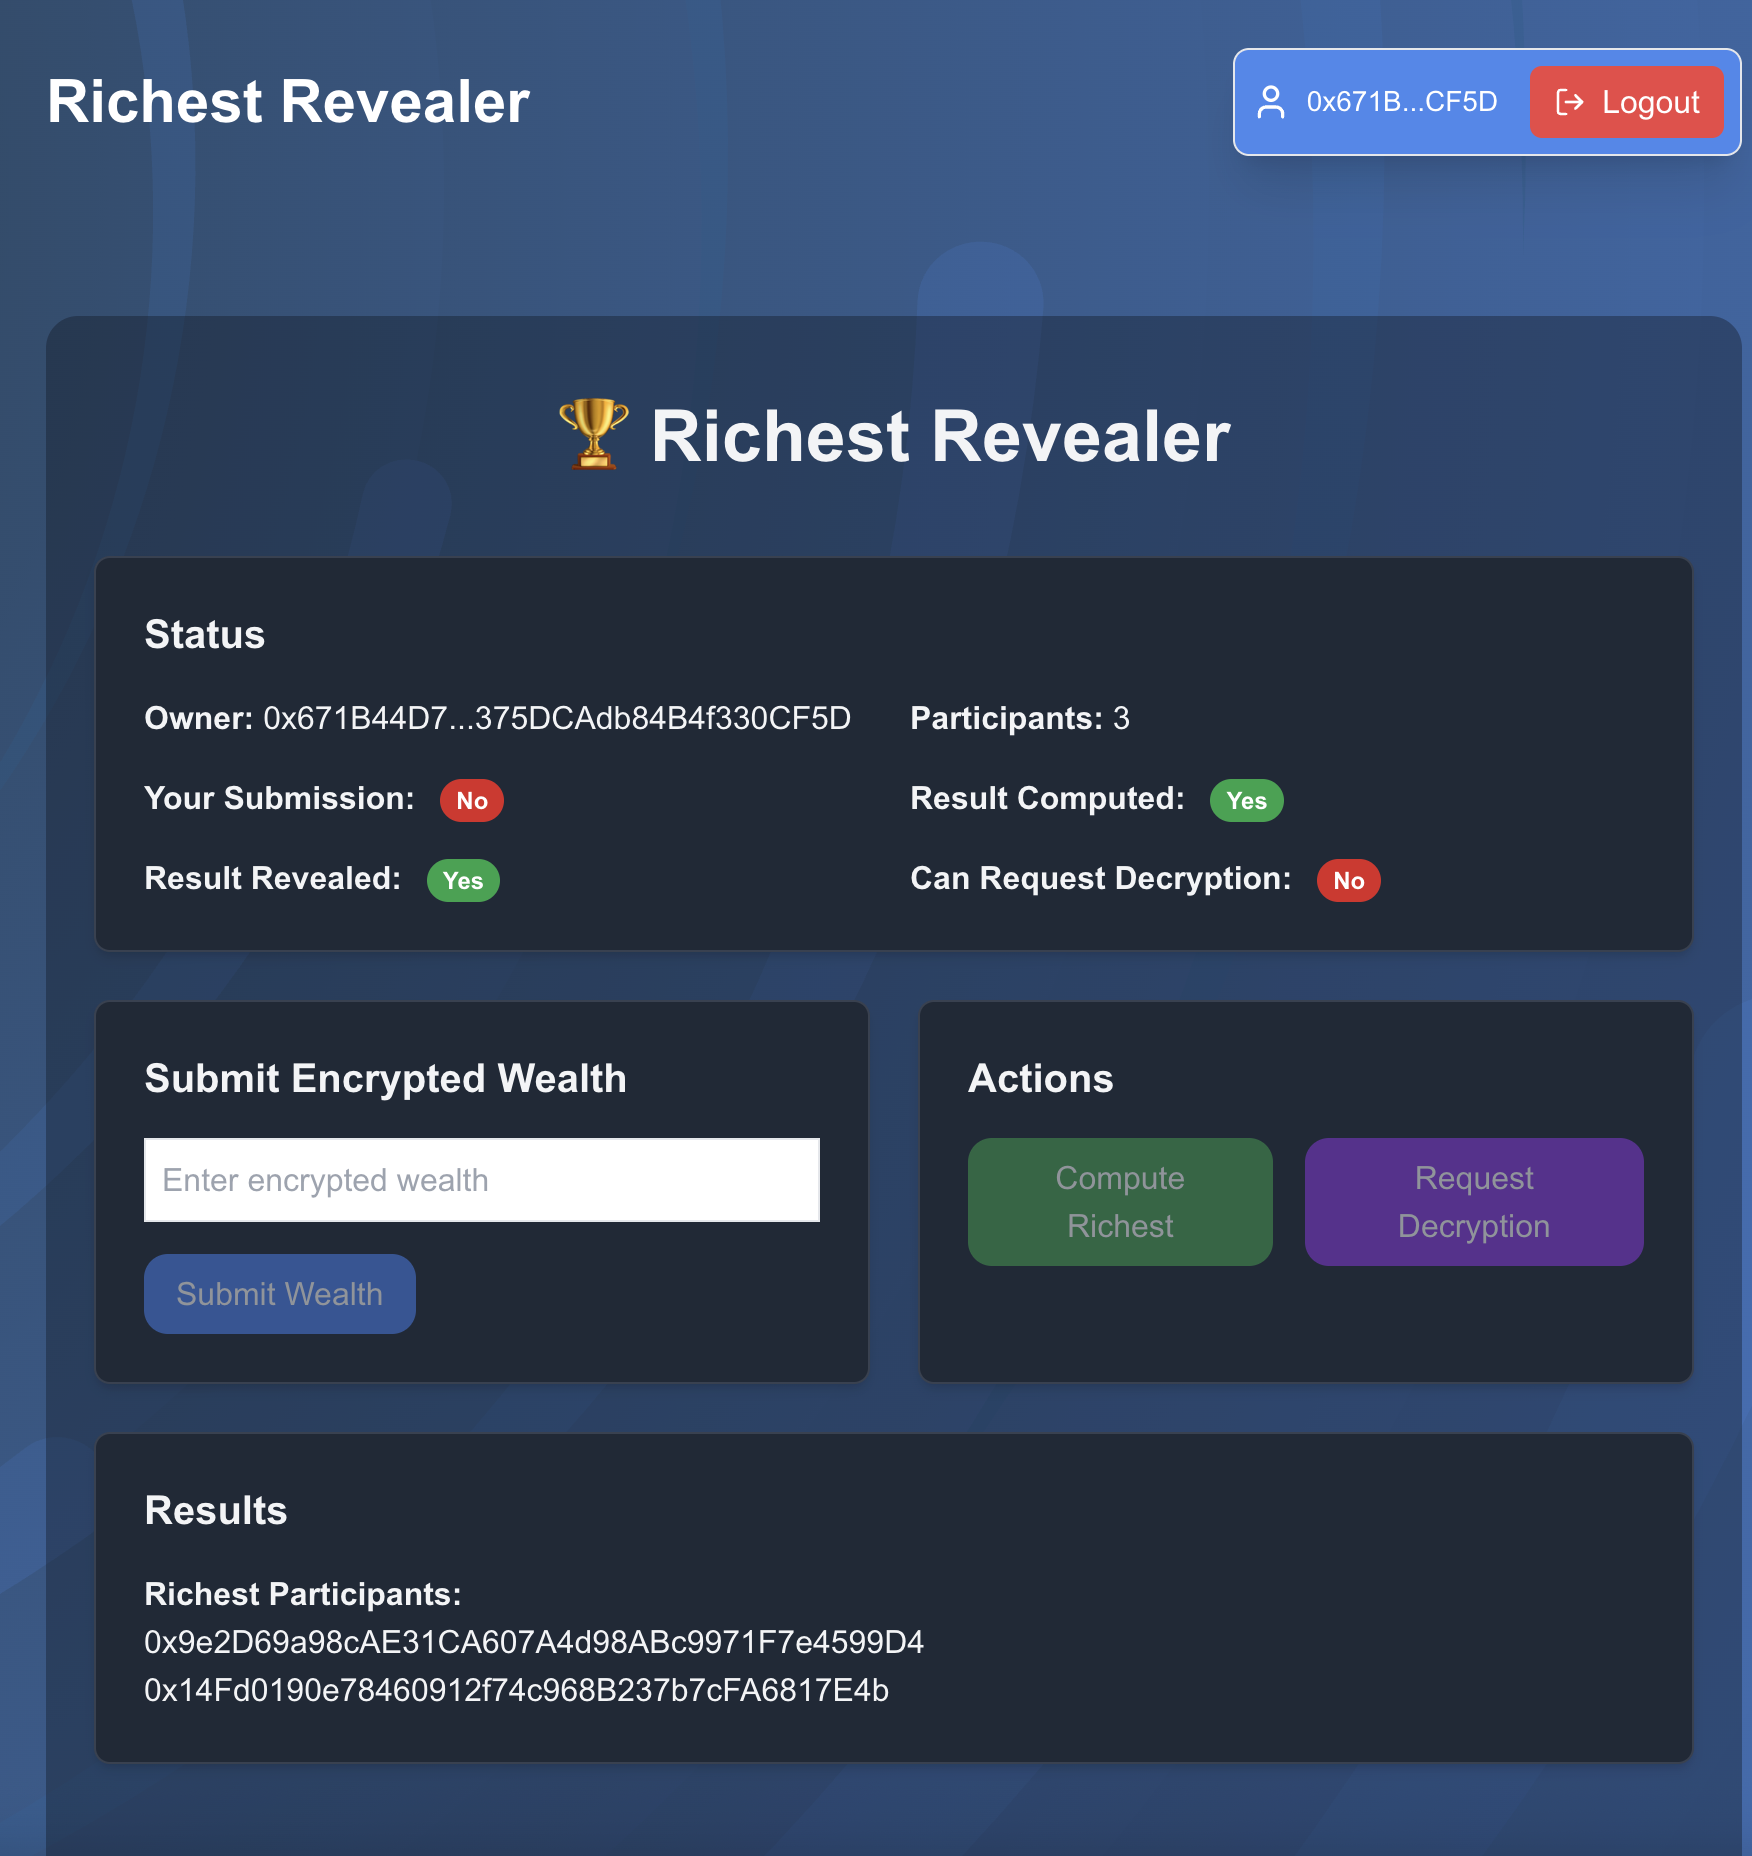
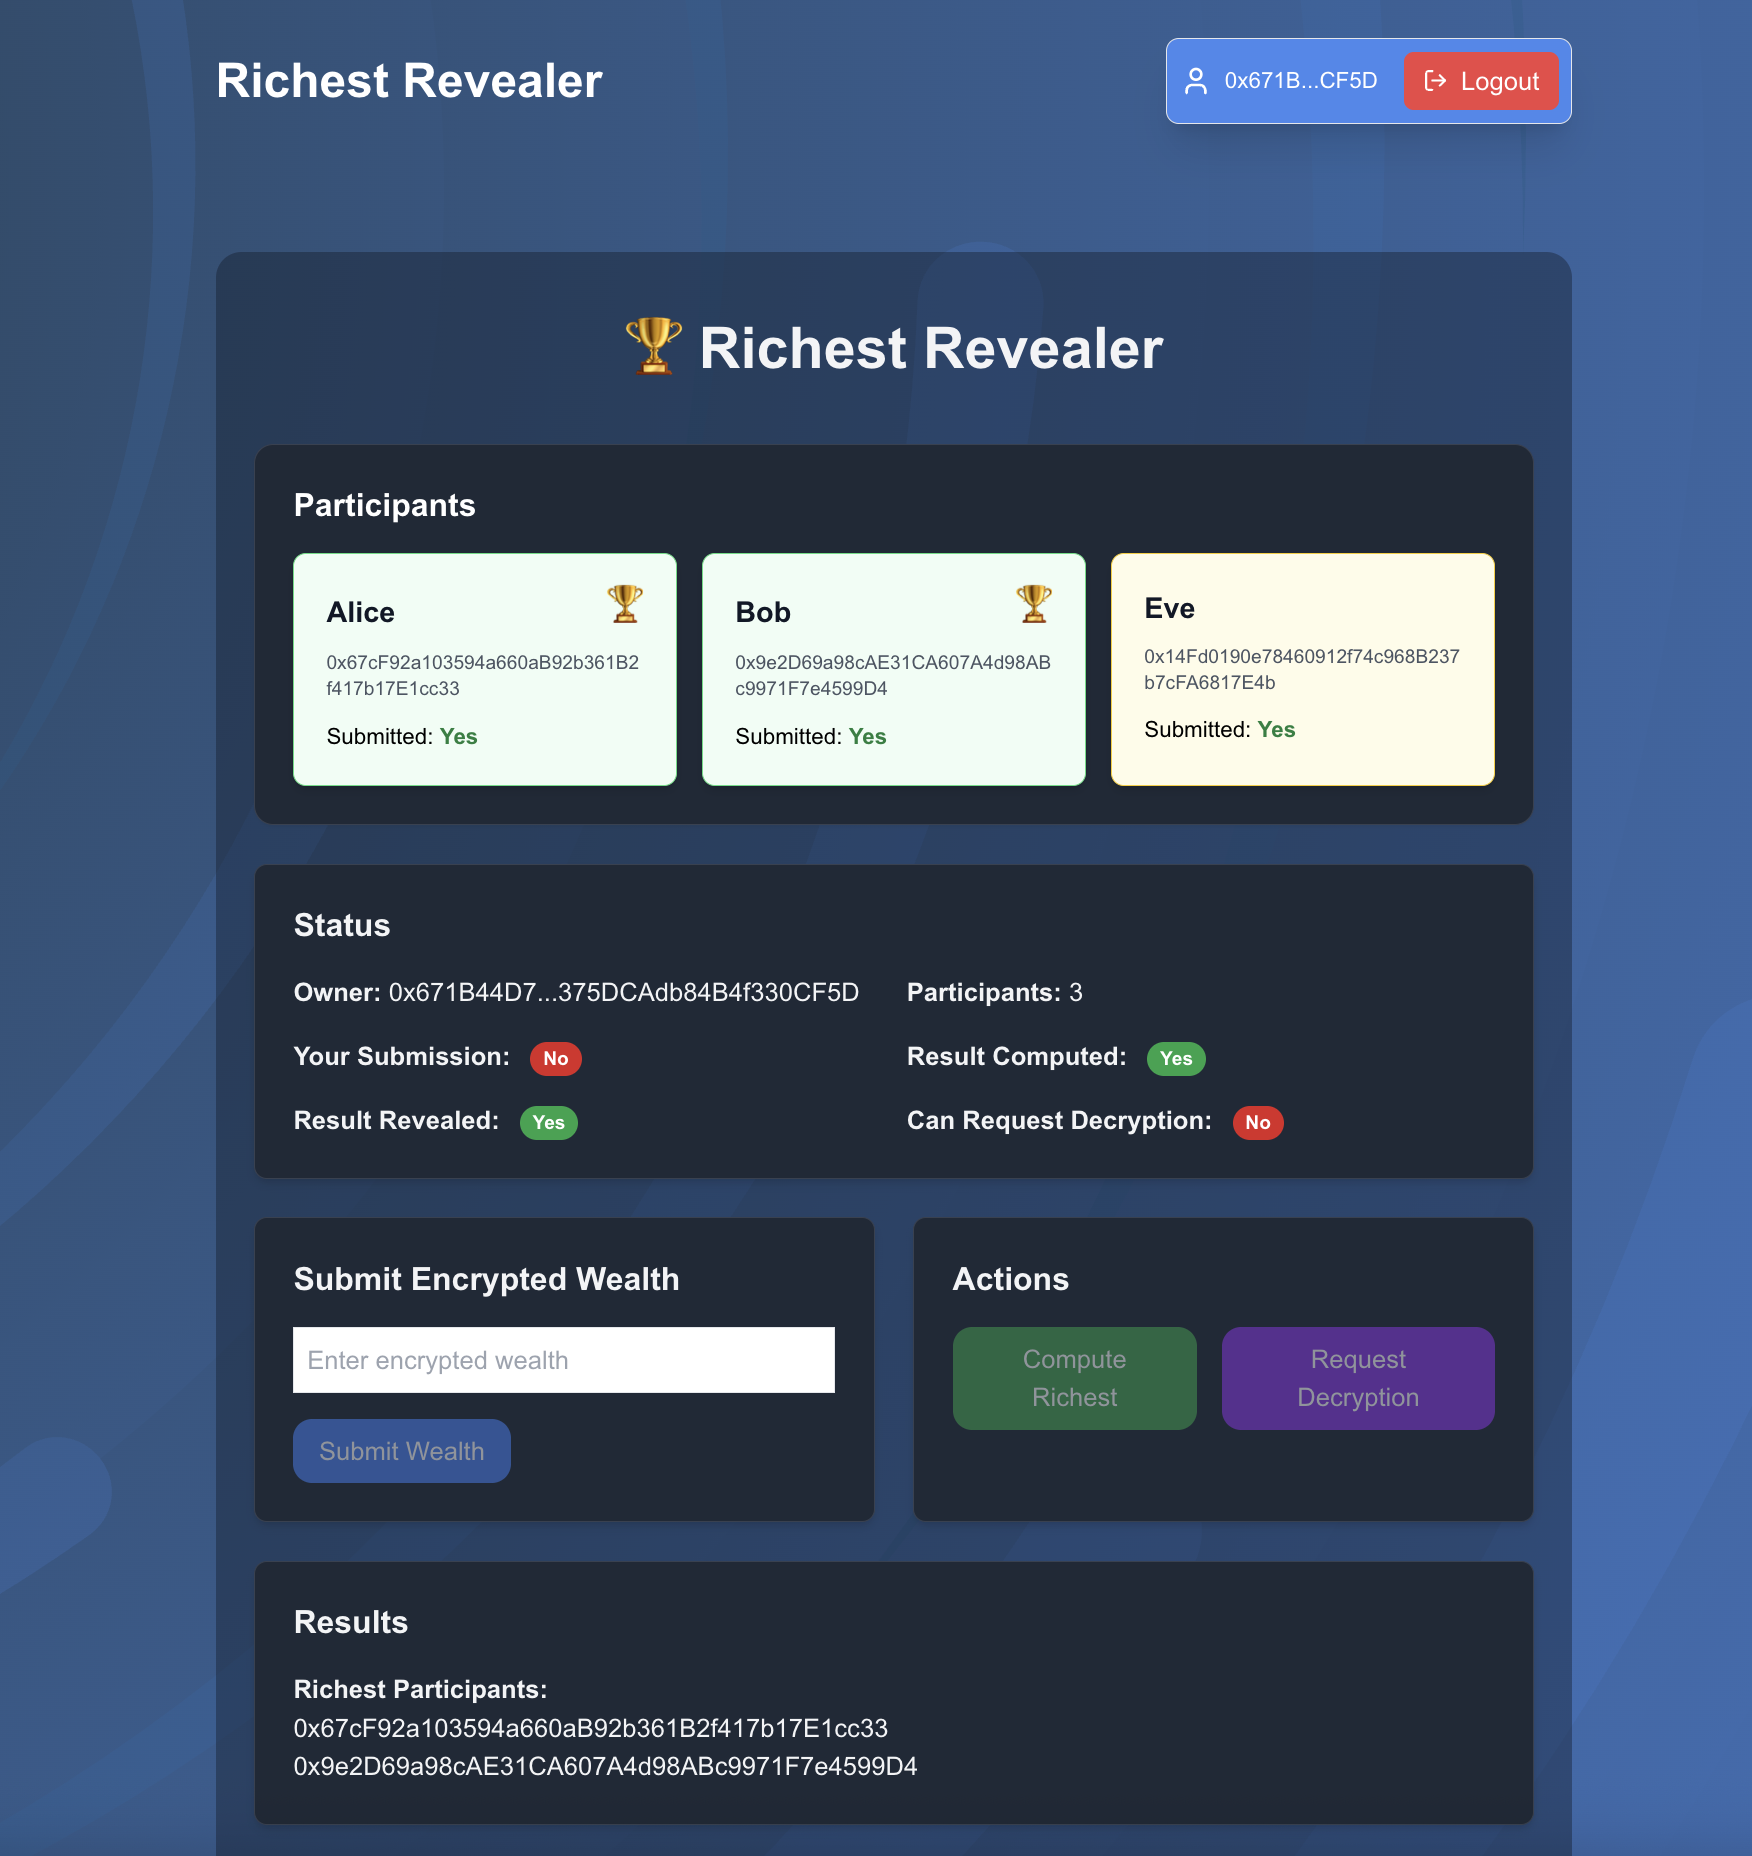
feat: ui fixes

diff --git a/src/components/ContractInteraction.js b/src/components/ContractInteraction.js
@@ -23,6 +23,8 @@ export default function ContractInteraction() {
     resultRevealed,
     canRequestDecryption,
     isTransactionPending,
+    knownParticipants,
+    participantStatuses,
   } = useRichestRevealer();
 
   const renderStatusBadge = (condition) => (
@@ -34,6 +36,49 @@ export default function ContractInteraction() {
   return (
     <div className="min-h-screen bg-gray-900 bg-opacity-40 rounded-2xl text-gray-100 px-6 py-10">
       <h1 className="text-4xl font-bold text-center mb-10">🏆 Richest Revealer</h1>
+      <div className="bg-gray-800 border col-span-2 border-gray-700 text-black rounded-xl shadow-sm p-6 mb-6 space-y-4">
+        <h2 className="text-xl font-semibold text-white">Participants</h2>
+        <div className="grid grid-cols-1 md:grid-cols-3 gap-4">
+          {knownParticipants.map((p) => {
+            const status = participantStatuses.find(s => s.address.toLowerCase() === p.address.toLowerCase());
+            const isSubmitted = status?.submitted;
+            const isWinner = richest.includes(p.address);
+
+            return (
+              <article
+                key={p.address}
+                className={`
+        p-5 rounded-lg shadow-md border 
+        transition-colors duration-300 ease-in-out
+        cursor-default
+        ${isWinner ? 'bg-green-50 border-green-400 hover:bg-green-100' :
+                    isSubmitted ? 'bg-yellow-50 border-yellow-400 hover:bg-yellow-100' :
+                      'bg-white border-gray-300 hover:bg-gray-50'}
+      `}
+                aria-label={`${p.name} participant card${isWinner ? ', winner' : isSubmitted ? ', submitted wealth' : ', not submitted'}`}
+              >
+                <header className="flex items-center justify-between mb-2">
+                  <h3 className="font-bold text-lg text-gray-900">{p.name}</h3>
+                  {isWinner && (
+                    <span role="img" aria-label="Winner trophy" className="text-2xl animate-bounce" title="🏆 Winner">
+                      🏆
+                    </span>
+                  )}
+                </header>
+                <address className="not-italic mb-3 text-xs text-gray-600 break-all">{p.address}</address>
+                <p className="text-sm">
+                  Submitted:{" "}
+                  <span className={isSubmitted ? 'text-green-700 font-semibold' : 'text-red-700 font-semibold'}>
+                    {isSubmitted ? 'Yes' : 'No'}
+                  </span>
+                </p>
+              </article>
+            );
+          })}
+
+        </div>
+      </div>
+
 
       <div className='grid grid-cols-1 md:grid-cols-2 gap-6'>
         {/* Info Card */}

diff --git a/src/hooks/useRichestRevealer.js b/src/hooks/useRichestRevealer.js
@@ -21,6 +21,14 @@ export default function useRichestRevealer() {
   const [resultRevealed, setResultRevealed] = useState(false);
   const [canRequestDecryption, setCanRequestDecryption] = useState(false);
 
+  const [participantStatuses, setParticipantStatuses] = useState([]);
+
+  const knownParticipants = [
+    { address: '0x67cF92a103594a660aB92b361B2f417b17E1cc33', name: 'Alice' },
+    { address: '0x9e2D69a98cAE31CA607A4d98ABc9971F7e4599D4', name: 'Bob' },
+    { address: '0x14Fd0190e78460912f74c968B237b7cFA6817E4b', name: 'Eve' },
+  ];
+
   const contractConfig = {
     address: RICHEST_REVEALER_CONTRACT_ADDRESS,
     abi: RICHEST_REVEALER_ABI,
@@ -31,6 +39,24 @@ export default function useRichestRevealer() {
     if (err?.shortMessage) return err.shortMessage;
     if (err?.message) return err.message;
     return 'Transaction failed';
+  };
+
+  const fetchParticipantStatuses = async () => {
+    try {
+      const statuses = await Promise.all(
+        knownParticipants.map(async ({ address }) => {
+          const submitted = await readContract(publicClient, {
+            ...contractConfig,
+            functionName: 'hasParticipantSubmitted',
+            args: [address],
+          });
+          return { address, submitted };
+        })
+      );
+      setParticipantStatuses(statuses);
+    } catch (err) {
+      console.error('Failed to fetch participant statuses', err);
+    }
   };
 
   const fetchContractState = async () => {
@@ -60,6 +86,8 @@ export default function useRichestRevealer() {
       setResultComputed(_computed);
       setCanRequestDecryption(_canDecrypt);
       setHasSubmitted(_hasSubmitted);
+
+      await fetchParticipantStatuses();
 
     } catch (err) {
       console.error('Error fetching state:', err);
@@ -201,5 +229,7 @@ export default function useRichestRevealer() {
     resultComputed,
     resultRevealed,
     canRequestDecryption,
+    knownParticipants,
+    participantStatuses,
   };
 }

diff --git a/src/utils/contract.js b/src/utils/contract.js
@@ -1,7 +1,7 @@
 import RichestRevealerABI from "../abi/RichestRevealer.json";
 
 export const RICHEST_REVEALER_CONTRACT_ADDRESS =
-  "0x3B478B0baA26524df3D19d9528D0f3379Ade9129"; 
+  "0xb3C89009d4c01dfddc9BE26816A3169076eE1554"; 
 
 export const RICHEST_REVEALER_ABI = RichestRevealerABI;
 
